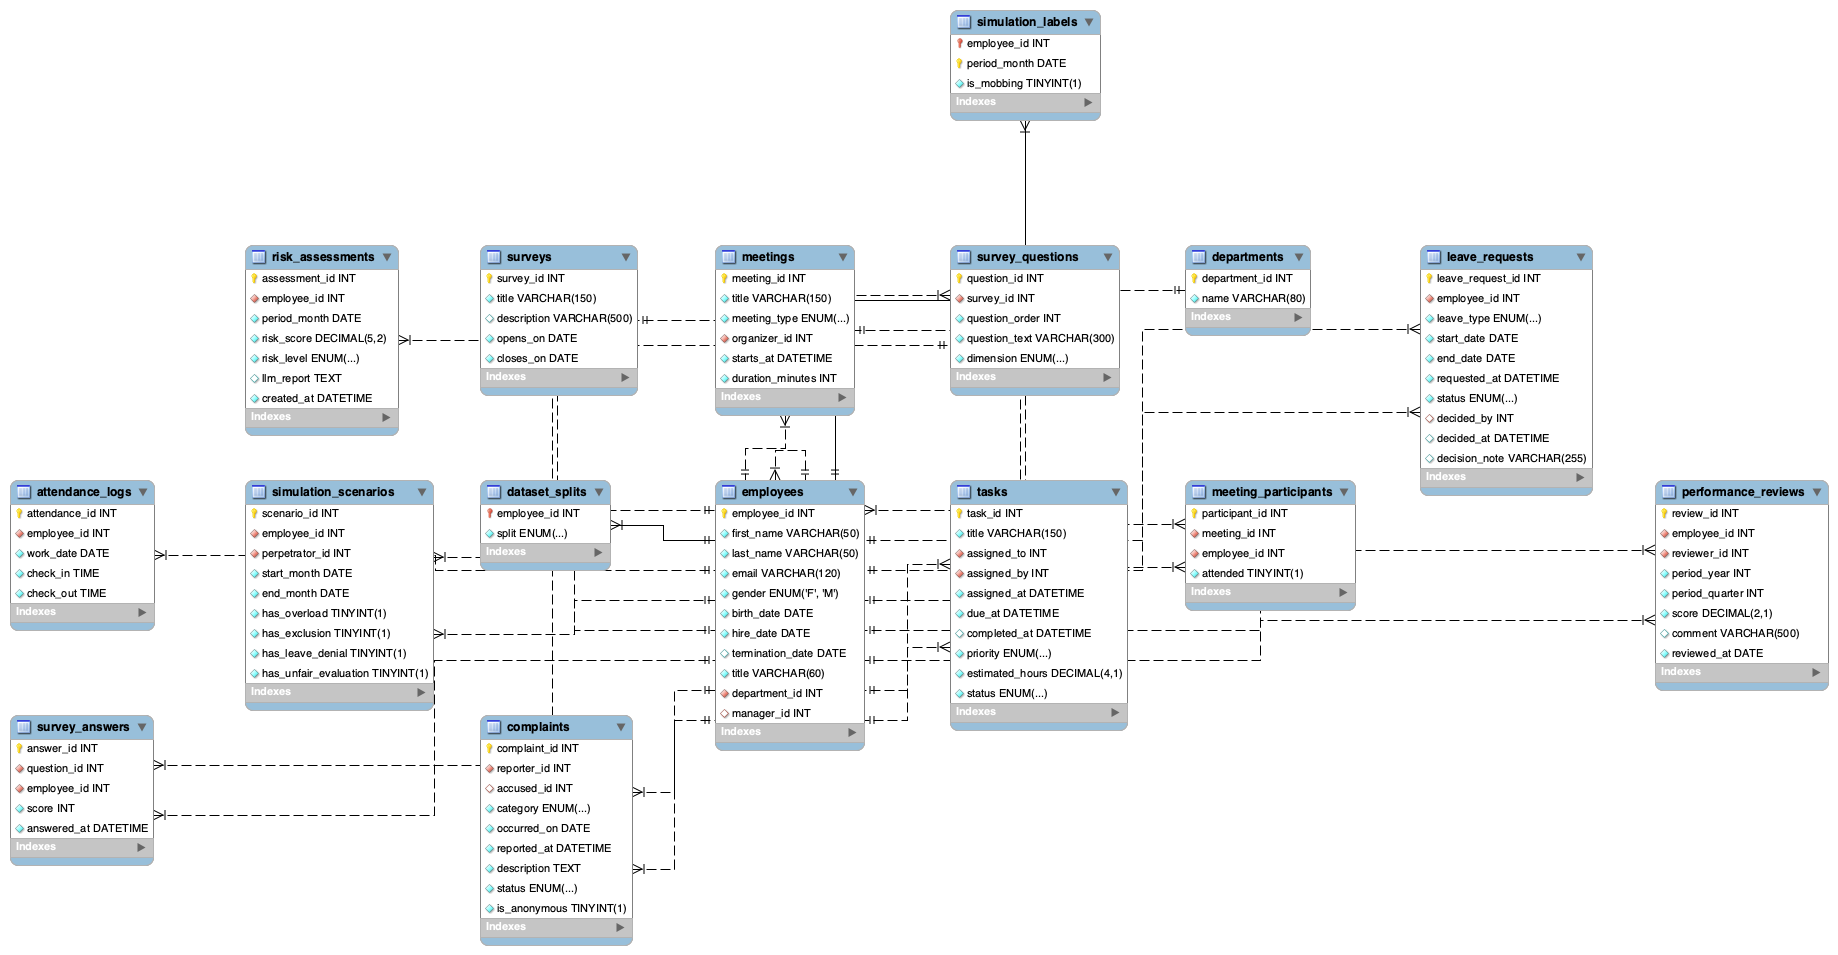
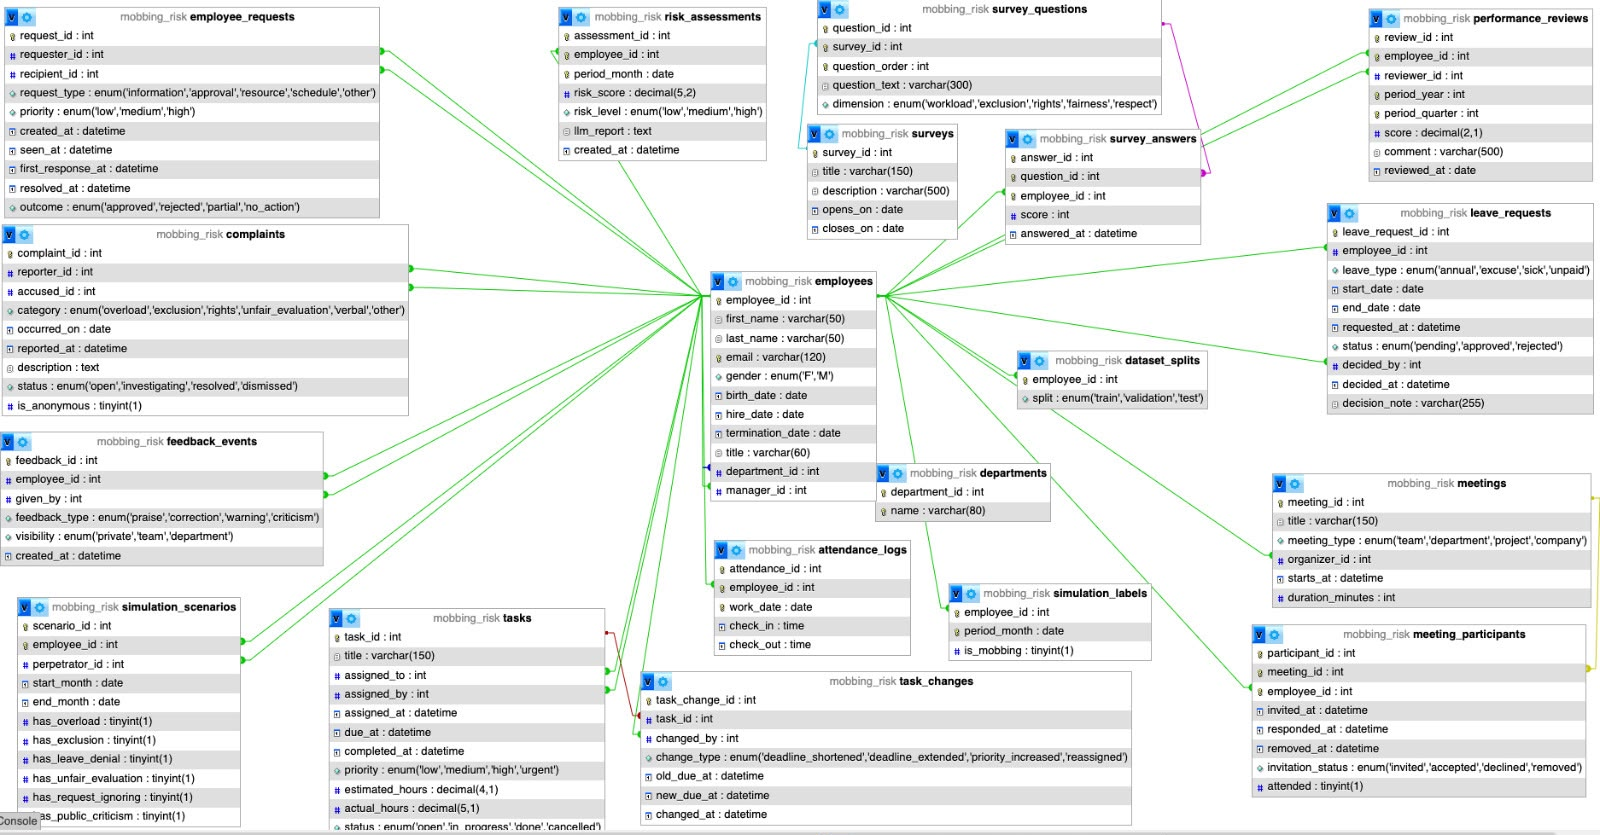
Yeni tablolar eklendi, ER diyagramı güncellendi

diff --git a/generator/generate_seed.py b/generator/generate_seed.py
@@ -10,11 +10,13 @@ Yalnız Python standart kütüphanesini kullanır. Aynı --seed aynı veriyi ür
 Simülasyonun mantığı:
   * 2025 yılı boyunca çalışan bir şirket kurulur (departman, ekip, yönetici).
   * Çalışanların yaklaşık yüzde 10'u bir "senaryo"ya girer: yöneticisi belirli
-    aylar arasında ona dört yoldan biri ya da birkaçıyla baskı uygular:
+    aylar arasında ona altı yoldan biri ya da birkaçıyla baskı uygular:
       overload           fazla görev, dar süre, mesai dışı görev, ek mesai
       exclusion          ekip toplantılarına çağırmama
       leave_denial       izin başvurularını reddetme ve geciktirme
       unfair_evaluation  performans puanını düşürme
+      request_ignoring   iş taleplerini görmeme, yanıtsız bırakma veya geciktirme
+      public_criticism   eleştiriyi ekip ya da departman önünde tekrarlama
   * Modeli yanıltacak zararsız durumlar da eklenir: bütün ekibin yoğun çalıştığı
     dönemler, sürekli çok çalışanlar, puanı hep düşük olanlar.
   * Hangi çalışanın hangi ayda senaryo içinde olduğu simulation_* tablolarına
@@ -96,13 +98,17 @@ SURVEY_QUESTIONS = [
     ("respect", "İş yerinde kendimi yalnız bırakılmış hissediyorum."),
 ]
 # Senaryo yolu -> (olasılık, ilgili anket boyutu, ilgili şikâyet kategorisi)
+# Her yolun anket karşılığı olmak zorunda değildir; None ise yalnız operasyonel
+# olaylardan ölçülür.
 SCENARIO_FLAGS = {
     "overload": (0.60, "workload", "overload"),
     "exclusion": (0.55, "exclusion", "exclusion"),
     "leave_denial": (0.40, "rights", "rights"),
     "unfair_evaluation": (0.60, "fairness", "unfair_evaluation"),
+    "request_ignoring": (0.45, None, "other"),
+    "public_criticism": (0.40, "respect", "verbal"),
 }
-DIMENSION_FLAG = {dimension: flag for flag, (_, dimension, _) in SCENARIO_FLAGS.items()}
+DIMENSION_FLAG = {dimension: flag for flag, (_, dimension, _) in SCENARIO_FLAGS.items() if dimension}
 
 REVIEW_WINDOWS = {1: (dt.date(YEAR, 4, 7), dt.date(YEAR, 4, 18)), 2: (dt.date(YEAR, 7, 7), dt.date(YEAR, 7, 18)),
                   3: (dt.date(YEAR, 10, 6), dt.date(YEAR, 10, 17)), 4: (dt.date(YEAR, 12, 15), dt.date(YEAR, 12, 26))}
@@ -442,7 +448,77 @@ class Simulation:
         rows.sort(key=lambda row: (row[1], row[0]))
         self.tables["attendance_logs"] = rows
 
-    # ---- 4. görevler ----
+    # ---- 4. çalışan talepleri ----
+
+    def build_requests(self):
+        """İş talepleri; görülme, ilk yanıt ve çözüm zamanları birbirinden ayrıdır."""
+        rng, rows = self.rng, []
+        staff = [e for e in self.employees if e["manager"]]
+        request_types = ["information", "approval", "resource", "schedule", "other"]
+
+        for emp in staff:
+            for month in range(1, 13):
+                days = [d for d in WORKDAYS_BY_MONTH[month] if self.employed(emp, d)]
+                if not days:
+                    continue
+                count = self.poisson(1.7 * len(days) / len(WORKDAYS_BY_MONTH[month]))
+                ignoring = self.factor(emp["id"], month, "request_ignoring")
+                if ignoring:
+                    count += self.poisson(1.2 * ignoring)
+
+                for _ in range(count):
+                    day = rng.choice(days)
+                    created = at(day, rng.randint(8 * 60 + 30, 17 * 60 + 30))
+                    colleagues = [e for e in self.employees
+                                  if e["dept"] == emp["dept"] and e["id"] != emp["id"]
+                                  and self.employed(e, day)]
+                    if ignoring and rng.random() < 0.72:
+                        recipient = self.scenarios[emp["id"]]["perpetrator"]
+                    elif rng.random() < 0.72:
+                        recipient = emp["manager"]
+                    elif colleagues:
+                        recipient = rng.choice(colleagues)["id"]
+                    else:
+                        recipient = emp["manager"]
+
+                    targeted = bool(ignoring and recipient == self.scenarios[emp["id"]]["perpetrator"])
+                    busy = self.crunch(emp, month)
+                    priority = rng.choices(["low", "medium", "high"], [0.18, 0.65, 0.17])[0]
+                    request_type = rng.choices(request_types, [0.34, 0.24, 0.15, 0.18, 0.09])[0]
+
+                    if targeted and rng.random() < 0.24:
+                        seen = response = resolved = outcome = None
+                    else:
+                        seen_hours = rng.uniform(18, 96) * ignoring if targeted else rng.uniform(0.05, 10 + 24 * busy)
+                        seen = (created + dt.timedelta(hours=seen_hours)).replace(second=0, microsecond=0)
+                        no_response = rng.random() < (0.52 if targeted else 0.12 if busy else 0.055)
+                        if no_response or seen > DATA_END:
+                            response = resolved = outcome = None
+                            if seen > DATA_END:
+                                seen = None
+                        else:
+                            response_hours = rng.uniform(36, 168) * ignoring if targeted else rng.uniform(0.1, 18 + 36 * busy)
+                            response = (seen + dt.timedelta(hours=response_hours)).replace(second=0, microsecond=0)
+                            if response > DATA_END:
+                                response = None
+                                resolved = outcome = None
+                            elif rng.random() < (0.60 if targeted else 0.88):
+                                resolved = (response + dt.timedelta(hours=rng.uniform(0.2, 72))).replace(second=0, microsecond=0)
+                                if resolved > DATA_END:
+                                    resolved = outcome = None
+                                else:
+                                    outcome = rng.choices(["approved", "rejected", "partial", "no_action"],
+                                                          [0.56, 0.17, 0.20, 0.07] if not targeted
+                                                          else [0.22, 0.24, 0.20, 0.34])[0]
+                            else:
+                                resolved = outcome = None
+                    rows.append((emp["id"], recipient, request_type, priority, created,
+                                 seen, response, resolved, outcome))
+
+        rows.sort(key=lambda row: row[4])
+        self.tables["employee_requests"] = [(i + 1, *row) for i, row in enumerate(rows)]
+
+    # ---- 5. görevler ----
 
     def build_tasks(self):
         rng, rows = self.rng, []
@@ -464,9 +540,11 @@ class Simulation:
                     extra = self.poisson(rate * share * rng.uniform(0.9, 1.5) * overload)
                     rows += [self.pressure_task(emp, scenario, workdays, all_days) for _ in range(extra)]
         rows.sort(key=lambda row: row[3])
-        self.tables["tasks"] = [(i + 1, *row) for i, row in enumerate(rows)]
+        tasks = [(i + 1, *row) for i, row in enumerate(rows)]
+        self.tables["tasks"] = tasks
+        self.build_task_changes(tasks)
 
-    def task_row(self, emp, assigner, assigned, due, completed, priority, hours):
+    def task_row(self, emp, assigner, assigned, due, completed, priority, hours, effort_factor=1.0):
         if completed and completed > DATA_END:
             completed = None
         if completed:
@@ -475,8 +553,12 @@ class Simulation:
             status = "cancelled"
         else:
             status = self.rng.choice(["open", "in_progress"])
+        actual_hours = None
+        if completed:
+            late_factor = 1.18 if completed > due else 1.0
+            actual_hours = round(clamp(self.rng.gauss(hours * effort_factor * late_factor, max(0.6, hours * 0.18)), 0.5, 99.0), 1)
         title = f"{self.rng.choice(TASK_ACTIONS[emp['dept']])}: {self.rng.choice(TASK_SUBJECTS)}"
-        return (title, emp["id"], assigner, assigned, due, completed, priority, hours, status)
+        return (title, emp["id"], assigner, assigned, due, completed, priority, hours, actual_hours, status)
 
     def finish_within(self, assigned, due):
         """Dar süreli görevin süresi içinde bitiş anı."""
@@ -521,7 +603,8 @@ class Simulation:
         elif roll < on_time + late:
             completed = due + dt.timedelta(minutes=rng.randint(120, 72 * 60))
         priority = "urgent" if urgent else rng.choices(["low", "medium", "high"], [0.22, 0.56, 0.22])[0]
-        return self.task_row(emp, assigner, assigned, due, completed, priority, hours)
+        return self.task_row(emp, assigner, assigned, due, completed, priority, hours,
+                             1.12 if overload or crunch else 1.0)
 
     def pressure_task(self, emp, scenario, workdays, all_days):
         """Senaryodaki yöneticinin verdiği görev: dar süreli, çoğu acil, sık sık mesai dışı."""
@@ -538,20 +621,74 @@ class Simulation:
         elif roll < 0.88:
             completed = due + dt.timedelta(minutes=rng.randint(4 * 60, 96 * 60))
         priority = rng.choices(["urgent", "high", "medium"], [0.5, 0.4, 0.1])[0]
-        return self.task_row(emp, scenario["perpetrator"], assigned, due, completed, priority, rng.choice([6, 8, 12, 16, 20]))
+        return self.task_row(emp, scenario["perpetrator"], assigned, due, completed, priority,
+                             rng.choice([6, 8, 12, 16, 20]), 1.30)
 
-    # ---- 5. toplantılar ----
+    def build_task_changes(self, tasks):
+        """Görev geçmişine hem sıradan revizyonlar hem hedefli son tarih baskısı ekler."""
+        rng, rows = self.rng, []
+        for task in tasks:
+            task_id, _, assigned_to, assigned_by, assigned_at, due_at = task[:6]
+            scenario = self.scenarios.get(assigned_to)
+            overload = self.factor(assigned_to, assigned_at.month, "overload")
+            targeted = bool(overload and scenario and assigned_by == scenario["perpetrator"])
+            if rng.random() >= (0.24 if targeted else 0.065):
+                continue
+
+            change_type = rng.choices(
+                ["deadline_shortened", "deadline_extended", "priority_increased", "reassigned"],
+                [0.58, 0.06, 0.31, 0.05] if targeted else [0.20, 0.43, 0.27, 0.10]
+            )[0]
+            span_minutes = max(30, int((due_at - assigned_at).total_seconds() / 60))
+            changed_at = assigned_at + dt.timedelta(minutes=rng.randint(15, max(15, int(span_minutes * 0.65))))
+            if change_type == "deadline_shortened":
+                old_due = due_at + dt.timedelta(hours=rng.randint(12, 96))
+                new_due = due_at
+            elif change_type == "deadline_extended":
+                old_due = max(assigned_at + dt.timedelta(minutes=30),
+                              due_at - dt.timedelta(hours=rng.randint(6, 48)))
+                new_due = due_at
+            else:
+                old_due = new_due = None
+            rows.append((task_id, assigned_by, change_type, old_due, new_due, changed_at))
+        rows.sort(key=lambda row: row[5])
+        self.tables["task_changes"] = [(i + 1, *row) for i, row in enumerate(rows)]
+
+    # ---- 6. toplantılar ----
 
     def build_meetings(self):
-        rng, meetings = self.rng, []   # (başlangıç, tür, düzenleyen, süre, başlık, {çalışan: katıldı mı})
+        rng, meetings = self.rng, []   # son öğe: {çalışan: davet ayrıntıları}
         ceo = self.employees[0]
 
         def add(day, minutes, kind, organizer, duration, title, invited, attend_rate):
-            people = {organizer: 1}
+            starts = at(day, minutes)
+            organizer_invited = starts - dt.timedelta(days=7)
+            people = {organizer: (organizer_invited, organizer_invited, None, "accepted", 1)}
             for emp_id in invited:
                 if emp_id != organizer and self.employed(self.by_id[emp_id], day):
-                    people[emp_id] = 0 if day in self.approved_leave[emp_id] else int(rng.random() < attend_rate)
-            meetings.append((at(day, minutes), kind, organizer, duration, title, people))
+                    exclusion = self.factor(emp_id, day.month, "exclusion")
+                    if exclusion and rng.random() < 0.45:
+                        invited_at = starts - dt.timedelta(minutes=rng.randint(20, 6 * 60))
+                    else:
+                        invited_at = starts - dt.timedelta(hours=rng.uniform(18, 9 * 24))
+                    invited_at = invited_at.replace(second=0, microsecond=0)
+                    removed_chance = 0.18 * exclusion + 0.015
+                    if rng.random() < removed_chance:
+                        removed_at = invited_at + (starts - invited_at) * rng.uniform(0.2, 0.9)
+                        people[emp_id] = (invited_at, None, removed_at.replace(second=0, microsecond=0), "removed", 0)
+                        continue
+                    if rng.random() < 0.08:
+                        responded_at, status, attended = None, "invited", 0
+                    else:
+                        responded_at = invited_at + (starts - invited_at) * rng.uniform(0.05, 0.8)
+                        if day in self.approved_leave[emp_id] or rng.random() > 0.93:
+                            status, attended = "declined", 0
+                        else:
+                            status = "accepted"
+                            attended = int(rng.random() < attend_rate)
+                        responded_at = responded_at.replace(second=0, microsecond=0)
+                    people[emp_id] = (invited_at, responded_at, None, status, attended)
+            meetings.append((starts, kind, organizer, duration, title, people))
 
         # Haftalık ekip toplantıları: yönetici kendi ekibini çağırır
         for boss_id, members in self.reports.items():
@@ -595,10 +732,39 @@ class Simulation:
 
         meetings.sort(key=lambda m: m[0])
         self.tables["meetings"] = [(i + 1, m[4], m[1], m[2], m[0], m[3]) for i, m in enumerate(meetings)]
-        self.tables["meeting_participants"] = [(i + 1, emp_id, attended)
-                                               for i, m in enumerate(meetings) for emp_id, attended in m[5].items()]
+        self.tables["meeting_participants"] = [(i + 1, emp_id, *details)
+                                               for i, m in enumerate(meetings) for emp_id, details in m[5].items()]
 
-    # ---- 6. performans ----
+    # ---- 7. geri bildirim ----
+
+    def build_feedback(self):
+        rng, rows = self.rng, []
+        for emp in self.employees:
+            if not emp["manager"]:
+                continue
+            for month in range(1, 13):
+                days = [d for d in WORKDAYS_BY_MONTH[month] if self.employed(emp, d)]
+                if not days:
+                    continue
+                public_criticism = self.factor(emp["id"], month, "public_criticism")
+                count = self.poisson(0.9 + 0.8 * public_criticism)
+                for _ in range(count):
+                    created = at(rng.choice(days), rng.randint(9 * 60, 17 * 60 + 30))
+                    if public_criticism and rng.random() < 0.70:
+                        feedback_type = rng.choices(["criticism", "warning", "correction"], [0.62, 0.16, 0.22])[0]
+                        visibility = rng.choices(["team", "department", "private"], [0.64, 0.20, 0.16])[0]
+                    else:
+                        feedback_type = rng.choices(["praise", "correction", "warning", "criticism"],
+                                                    [0.51, 0.31, 0.08, 0.10])[0]
+                        if feedback_type == "praise":
+                            visibility = rng.choices(["private", "team", "department"], [0.38, 0.53, 0.09])[0]
+                        else:
+                            visibility = rng.choices(["private", "team", "department"], [0.84, 0.14, 0.02])[0]
+                    rows.append((emp["id"], emp["manager"], feedback_type, visibility, created))
+        rows.sort(key=lambda row: row[4])
+        self.tables["feedback_events"] = [(i + 1, *row) for i, row in enumerate(rows)]
+
+    # ---- 8. performans ----
 
     def build_reviews(self):
         rng, rows = self.rng, []
@@ -716,8 +882,10 @@ class Simulation:
         self.build_scenarios()
         self.build_leaves()
         self.build_attendance()
+        self.build_requests()
         self.build_tasks()
         self.build_meetings()
+        self.build_feedback()
         self.build_reviews()
         self.build_complaints()
         self.build_surveys()
@@ -741,16 +909,22 @@ TABLE_COLUMNS = [
     ("leave_requests", "leave_request_id, employee_id, leave_type, start_date, end_date, requested_at, status, "
                        "decided_by, decided_at, decision_note"),
     ("attendance_logs", "employee_id, work_date, check_in, check_out"),
-    ("tasks", "task_id, title, assigned_to, assigned_by, assigned_at, due_at, completed_at, priority, estimated_hours, status"),
+    ("employee_requests", "request_id, requester_id, recipient_id, request_type, priority, created_at, seen_at, "
+                          "first_response_at, resolved_at, outcome"),
+    ("tasks", "task_id, title, assigned_to, assigned_by, assigned_at, due_at, completed_at, priority, "
+              "estimated_hours, actual_hours, status"),
+    ("task_changes", "task_change_id, task_id, changed_by, change_type, old_due_at, new_due_at, changed_at"),
     ("meetings", "meeting_id, title, meeting_type, organizer_id, starts_at, duration_minutes"),
-    ("meeting_participants", "meeting_id, employee_id, attended"),
+    ("meeting_participants", "meeting_id, employee_id, invited_at, responded_at, removed_at, invitation_status, attended"),
+    ("feedback_events", "feedback_id, employee_id, given_by, feedback_type, visibility, created_at"),
     ("performance_reviews", "review_id, employee_id, reviewer_id, period_year, period_quarter, score, comment, reviewed_at"),
     ("complaints", "complaint_id, reporter_id, accused_id, category, occurred_on, reported_at, description, status, is_anonymous"),
     ("surveys", "survey_id, title, description, opens_on, closes_on"),
     ("survey_questions", "question_id, survey_id, question_order, question_text, dimension"),
     ("survey_answers", "question_id, employee_id, score, answered_at"),
     ("simulation_scenarios", "scenario_id, employee_id, perpetrator_id, start_month, end_month, has_overload, "
-                             "has_exclusion, has_leave_denial, has_unfair_evaluation"),
+                             "has_exclusion, has_leave_denial, has_unfair_evaluation, has_request_ignoring, "
+                             "has_public_criticism"),
     ("simulation_labels", "employee_id, period_month, is_mobbing"),
     ("dataset_splits", "employee_id, split"),
 ]
